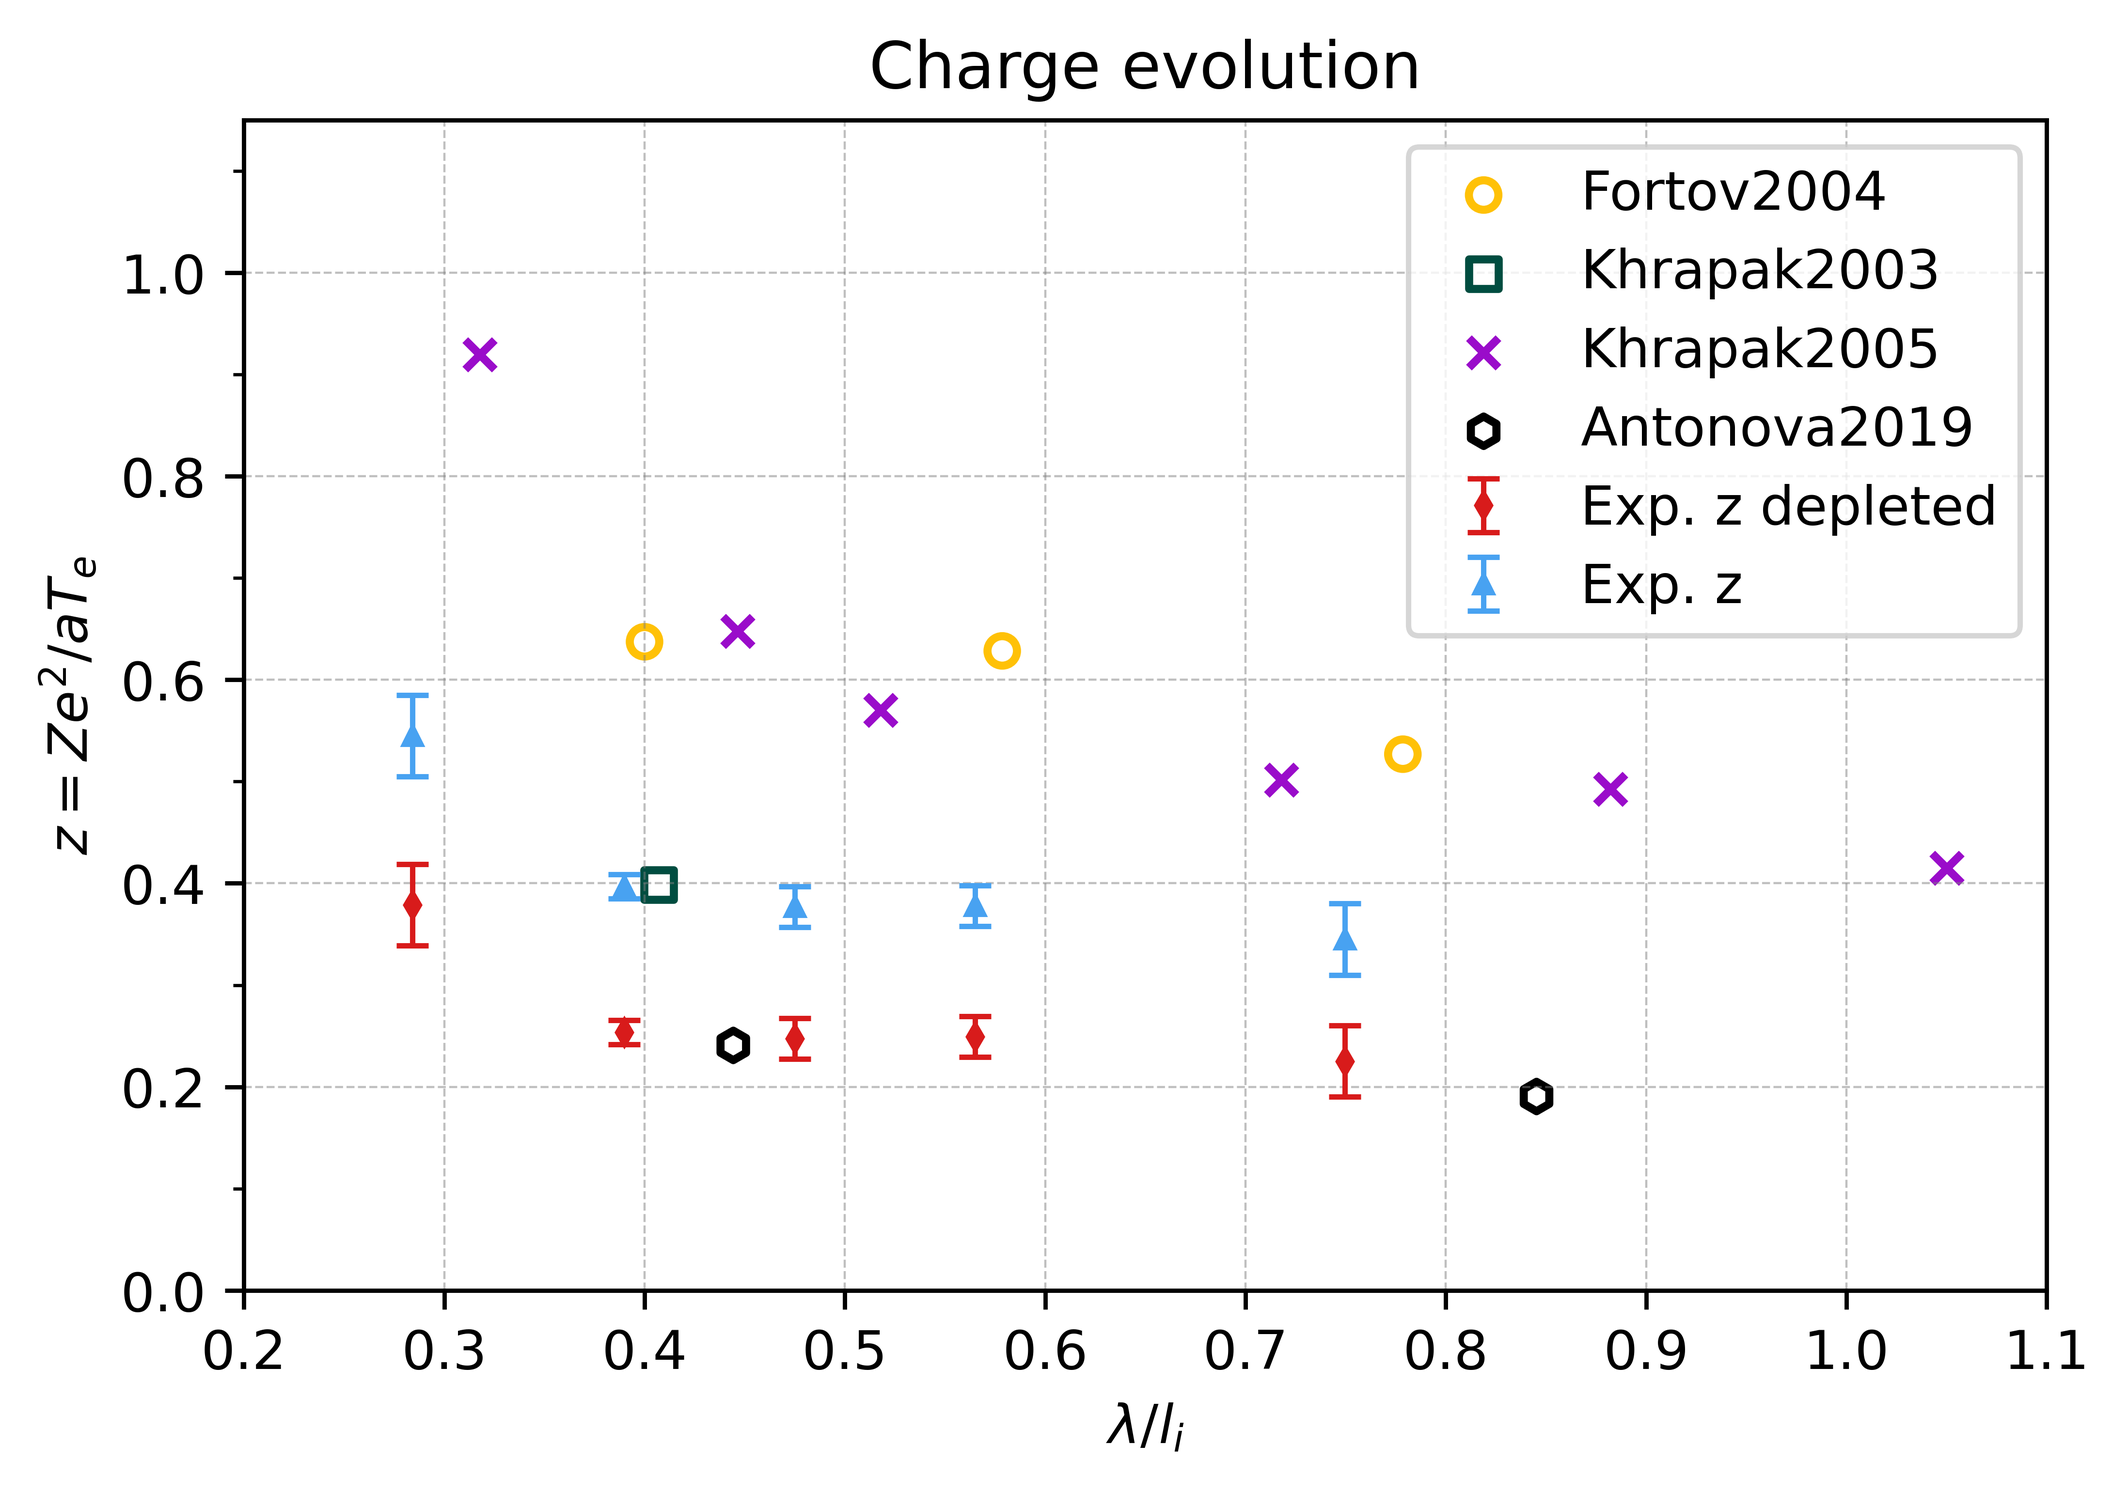
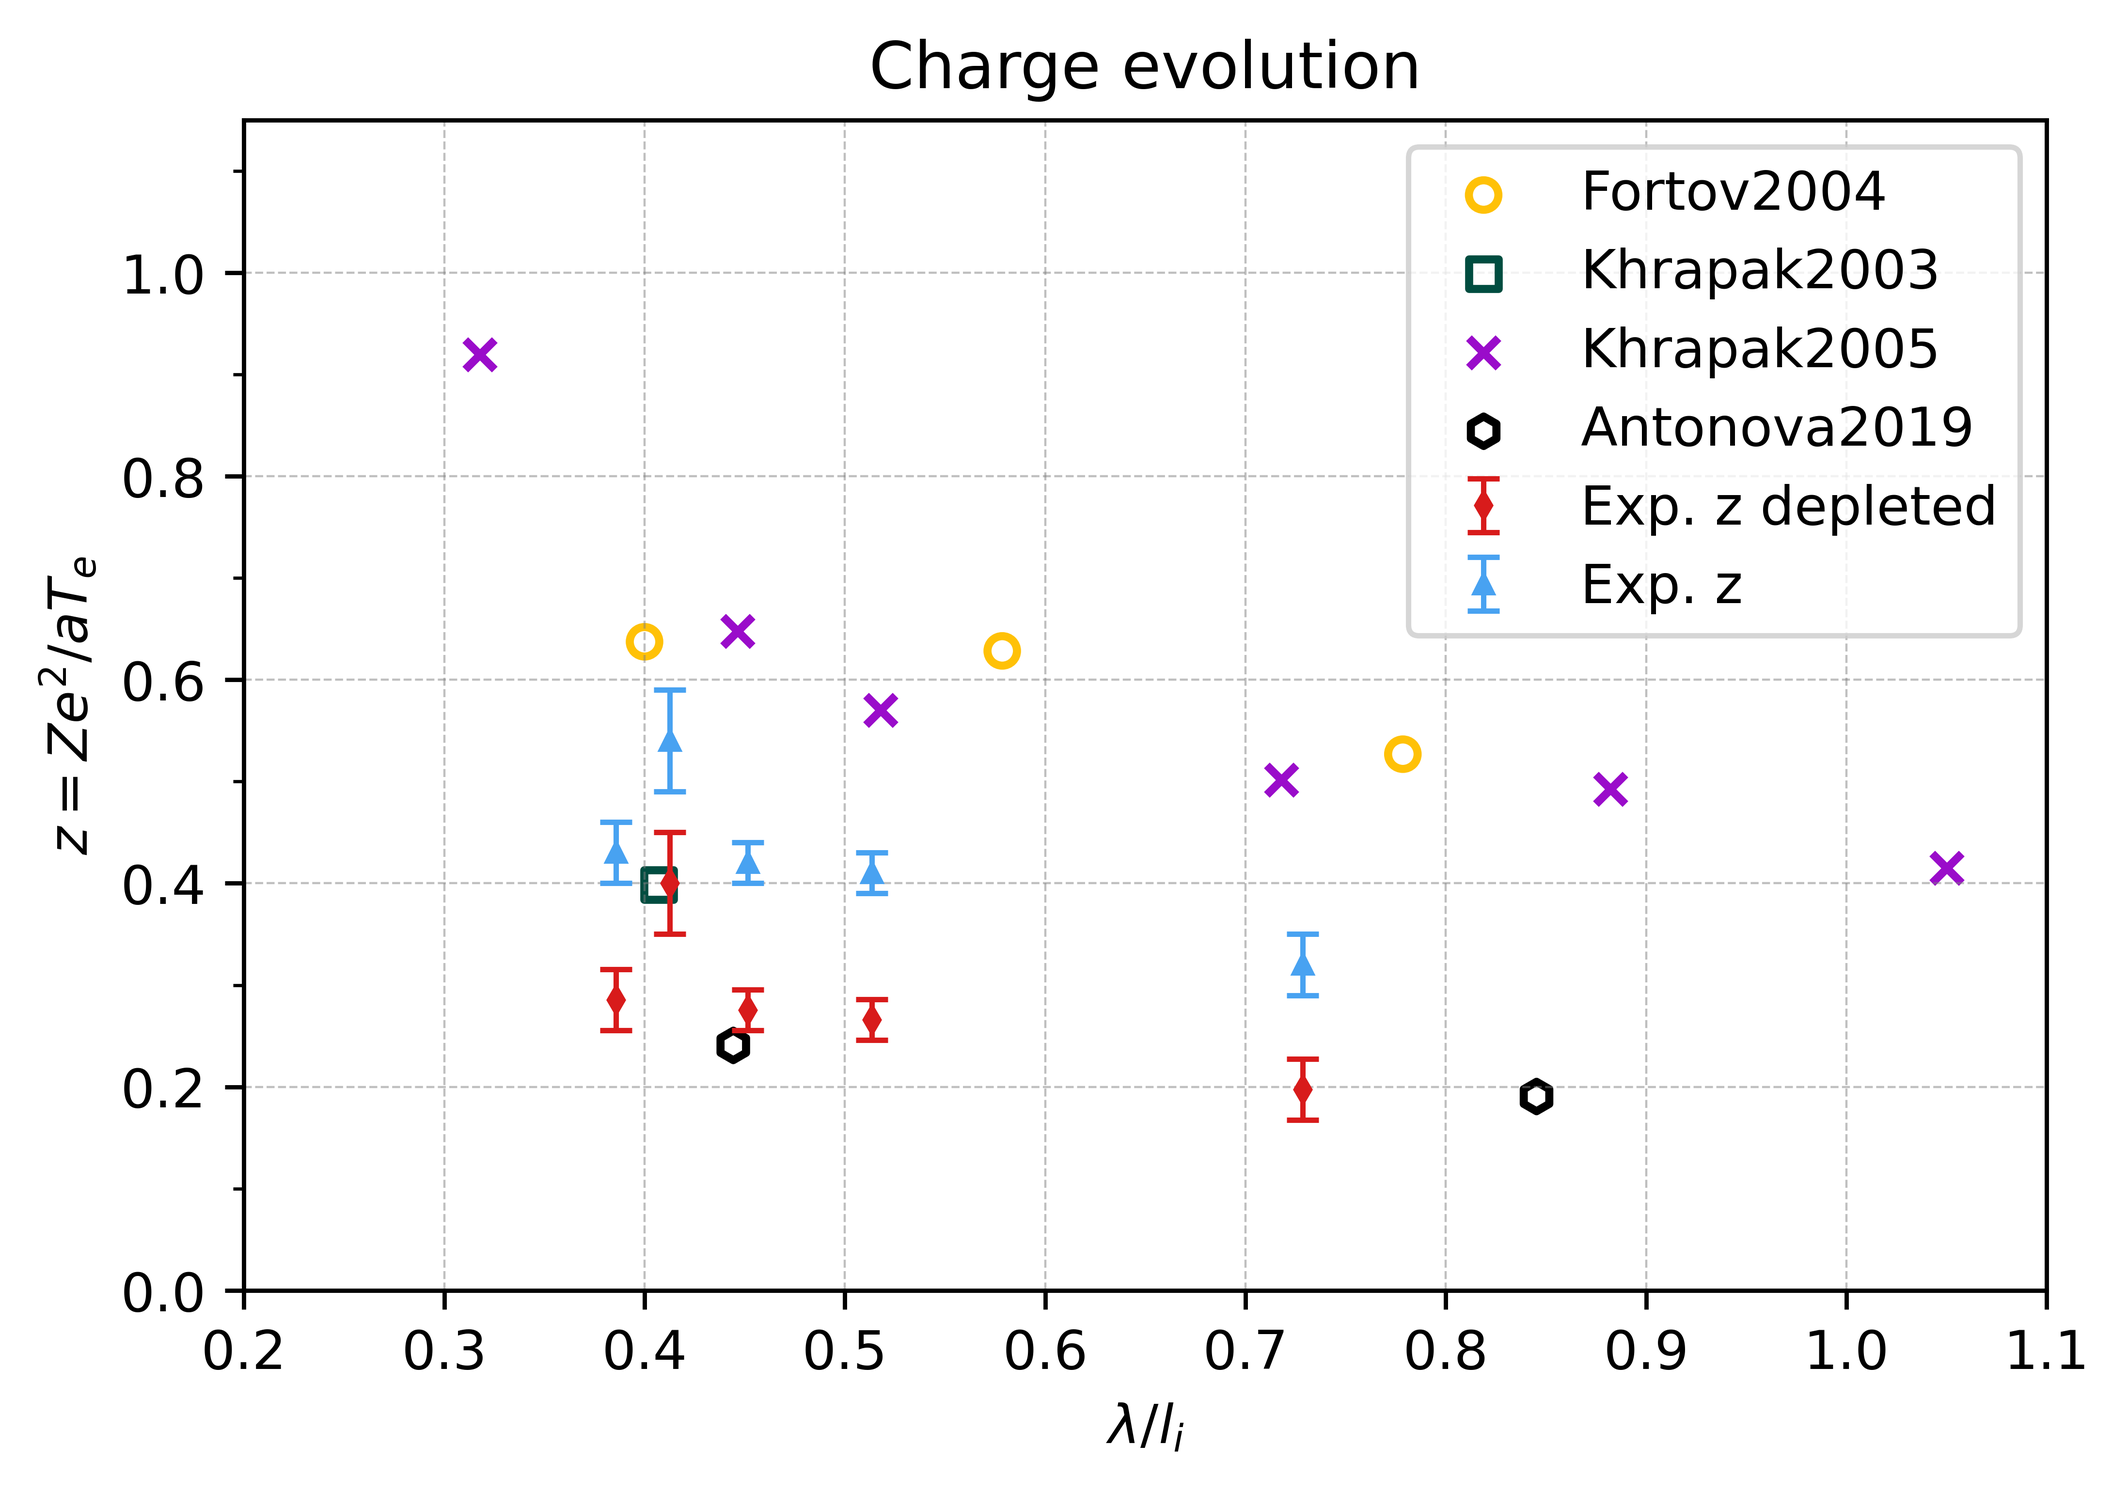
theory and plots

diff --git a/plots_bw_pfc42.py b/plots_bw_pfc42.py
@@ -353,14 +353,14 @@ def v_group_5(theory20, theory25, theory30, theory40, data20, error20, data25, e
     E_trial = [30, 40, 60, 80, 100]
     E_trial_30 = [40, 50, 60, 80, 100]
     E_trial_40 = [30, 50, 70, 90, 100]
-    arr_referenc = np.arange(10, 105, 5)
+    arr_referenc = np.arange(0, 110, 10)
     #
     #ax.plot(arr_referenc, theory20*1000, color ='#D81B1B', linestyle=':', linewidth=.9)
     #ax.plot(arr_referenc, theory25*1000, color='#48A2F1', linestyle='--', linewidth=.9)
     #ax.plot(arr_referenc, theory30*1000, color ='#FFC107', linestyle='-.', linewidth=.9)
     #ax.plot(arr_referenc, theory40*1000, color ='#000000', linestyle='-', linewidth=.9)
     # Fill the region between theory20 and theory40
-    ax.fill_between(arr_referenc, theory20*1000+1, theory40*1000-2, color='grey', alpha=0.3)
+    ax.fill_between(arr_referenc, theory20*1000, theory40*1000-3, color='grey', alpha=0.3)
     #
     ax.errorbar(E_trial, data20, yerr=error20, fmt='s', color='#D81B1B', linewidth=.9, markersize=3, capsize=1, mfc='w')
     ax.errorbar(E_trial, data25, yerr=error25, fmt='^', color='#48A2F1', linewidth=.9, markersize=3, capsize=1, mfc='w')
@@ -1122,7 +1122,7 @@ def bigploterror_12_3(x1, dx1, x2, dx2, x3, dx3, x4, dx4, x5, dx5, x6, dx6, x7, 
 def cdaw_bigploterror_6_3ov3_theory(data, error, data_pfc, error_pfc, theory, z, title, legend):
     #
     fig, ax = plt.subplots(dpi=600)
-    fig.set_size_inches(6, 3)
+    fig.set_size_inches(6, 3.5)
     #
     p = [20, 25, 30]
     p_pfc = [15, 20, 25, 30, 40]
@@ -1133,7 +1133,16 @@ def cdaw_bigploterror_6_3ov3_theory(data, error, data_pfc, error_pfc, theory, z,
     #
     ax.legend(['Theory','ISS Data','Pfc Data'])
     #
-    #adds a title and axes labels
+    #
+    #Edit tick 
+    ax.xaxis.set_minor_locator(MultipleLocator(2.5))
+    ax.yaxis.set_minor_locator(MultipleLocator(5))
+    #
+    #adds major gridlines
+    #ax.minorticks_on()
+    ax.grid(which='major', linestyle='--', linewidth='0.2', color='gray')
+    ax.grid(which='minor', linestyle='--', linewidth='0.1', color='gray')
+    #
     #ax.set_title(title)
     plt.xlabel('Pressure [Pa]')
     plt.ylabel('$C_{Daw}$ [mm/s]')
@@ -1141,19 +1150,10 @@ def cdaw_bigploterror_6_3ov3_theory(data, error, data_pfc, error_pfc, theory, z,
     ax2 = ax.twinx()  # instantiate a second axes that shares the same x-axis
     ax2.plot(p_pfc, z, color='#9A0CCA', linewidth=.5, linestyle='dashed')
     #
-    ax2.legend(["Charge potential"], bbox_to_anchor=(0.15, 0.6, .85, 0.1))#, prop={'size': 9})#, bbox_to_anchor=(0.08, 0.85, .85, .102))
+    ax2.legend(["Charge potential"], bbox_to_anchor=(0.15, 0.64, .85, 0.1) , loc='upper right')#, prop={'size': 9})#, bbox_to_anchor=(0.08, 0.85, .85, .102))
     #
     plt.ylabel('z')
-    #
-    #Edit tick 
-    ax.xaxis.set_minor_locator(MultipleLocator(2.5))
-    ax.yaxis.set_minor_locator(MultipleLocator(5))
-
-    #adds major gridlines
-    #ax.minorticks_on()
-    ax.grid(which='major', linestyle='--', linewidth='0.2', color='gray')
-    ax.grid(which='minor', linestyle='--', linewidth='0.1', color='gray')
-    
+    #    
     #ax2.set_ylim(ymax=.4)
     ax.set_ylim(ymax=80)
     
@@ -1162,14 +1162,14 @@ def cdaw_bigploterror_6_3ov3_theory(data, error, data_pfc, error_pfc, theory, z,
 def group_bigploterror_6_3ov3_theory(v_group, v_group_pfc, theory, havnes, title, legend):
     
     fig, ax = plt.subplots(dpi=600)
-    fig.set_size_inches(6, 3)
+    fig.set_size_inches(6, 3.5)
     #
     p = [15, 20, 25, 30, 40]
     p2 = [20, 25, 30]
     #
     ax.errorbar(p2, v_group[0], yerr=v_group[1], fmt='x', color='#48A2F1', markersize=2, linewidth=1, capsize=2) 
     ax.errorbar(p, v_group_pfc[0], yerr=v_group_pfc[1], fmt='^', color='#D81B1B', markersize=2, linewidth=1, capsize=2)        
-    ax.scatter(p, theory, marker='o', color='#000000', linewidth=1, s=30, facecolors='none')#, facecolors='none'
+    ax.scatter(p, abs(theory), marker='o', color='#000000', linewidth=1, s=30, facecolors='none')#, facecolors='none'
     #
     ax.legend(['Theory','ISS Data','Pfc Data'])
     #
@@ -1177,32 +1177,26 @@ def group_bigploterror_6_3ov3_theory(v_group, v_group_pfc, theory, havnes, title
     #
     plt.xlabel('Pressure [Pa]')
     #
-    # Create a second y-axis sharing the same x-axis
-    ax2 = ax.twinx()  # instantiate a second axes that shares the same x-axis
-    ax2.plot(p, havnes, color='#9A0CCA', linewidth=.5, linestyle='dashed')
-    #
-    ax2.legend(["Havnes-Parameter"], bbox_to_anchor=(0.15, 0.6, .85, 0.1) , loc='upper right')#, prop={'size': 9})#, bbox_to_anchor=(0.08, 0.85, .85, .102))
-    #
-    plt.ylabel('P')
-    #
     #Edit tick 
     ax.xaxis.set_minor_locator(MultipleLocator(2.5))
     ax.yaxis.set_minor_locator(MultipleLocator(5))
-
     #adds major gridlines
     #ax.minorticks_on()
     ax.grid(which='major', linestyle='--', linewidth='0.2', color='gray')
     ax.grid(which='minor', linestyle='--', linewidth='0.1', color='gray')
-    
-    # Create combined legend
-    #lines_labels = [data, theory, plot]
-    #labels = [line.get_label() for line in lines_labels]
-    #ax2.legend(lines_labels, labels, loc='upper right')
-    
+    #
+    # Create a second y-axis sharing the same x-axis
+    ax2 = ax.twinx()  # instantiate a second axes that shares the same x-axis
+    ax2.plot(p, havnes, color='#9A0CCA', linewidth=.5, linestyle='dashed')
+    #
+    ax2.legend(["Havnes-Parameter"], bbox_to_anchor=(0.15, 0.64, .85, 0.1) , loc='upper right')#, prop={'size': 9})#, bbox_to_anchor=(0.08, 0.85, .85, .102))
+    #
+    plt.ylabel('P')
+    #
     ax.set_title(title)
     #ax limit
     ax.set_ylim(ymin=30, ymax=100)
-    ax2.set_ylim(ymax=2.632)
+    ax2.set_ylim(ymax=3.132)
     
     plt.show() 
 
@@ -1668,7 +1662,7 @@ bigploterror_3(data_15_average, error_15_average, data_20_average, error_20_aver
 #%% PLOT
 
 # Import Math #
-obj_text_f = codecs.open('resultsC17/theory/theo_ dustspeed_neutralandiondrag_dc100_z_adjusted_depleted.txt', 'r', encoding='utf-8').read()
+obj_text_f = codecs.open('resultsC17/theory/theo_dustspeed_neutralandiondrag_dc100_z_depleted.txt', 'r', encoding='utf-8').read()
 parameters = json.load(open('resultsC17/parameters/system-parameter-C15-230125.json'))
 theory = np.array(json.loads(obj_text_f)) #This reads json to list
 theo_plot = theory[:,0]
@@ -1854,7 +1848,7 @@ error_speedlist_average_40pa_forward_pfc = np.std(a) + error_40
 #bigploterror_6_3ov3(speedlist_average_20pa_forward, error_speedlist_average_20pa_forward, speedlist_average_20pa_backward, error_speedlist_average_20pa_backward, speedlist_average_25pa_forward, error_speedlist_average_25pa_forward, speedlist_average_25pa_backward, error_speedlist_average_25pa_backward, speedlist_average_30pa_forward, error_speedlist_average_30pa_forward, speedlist_average_30pa_backward, error_speedlist_average_25pa_backward, ' ', ['20pa F', '20pa B', '25pa F', '25pa B', '30pa F', '30pa B'])
 
 # Import Math #
-obj_text_f = codecs.open('resultsC17/theory/theo_cdaw_dc100_z0.271.txt', 'r', encoding='utf-8').read()
+obj_text_f = codecs.open('resultsC17/theory/theo_cdaw_dc100_z0.285_depleted.txt', 'r', encoding='utf-8').read()
 theory = np.array(json.loads(obj_text_f)) #This reads json to list
 theo_plot = theory[:,0]
 z = theory[:,1]
@@ -1984,7 +1978,7 @@ v_error_trial_30 = [error30_t14, error30_t15, error30_t16, error30_t18, error_30
 v_data_trial_40 = [data40_t13, data40_t15, data40_t17, data40_t19, data_40_average]
 v_error_trial_40 = [error40_t13, error40_t15, error40_t17, error40_t19-2, error_40_average]                     
 #
-v_group_5(theory_cloud_speed_20pa, theory_cloud_speed_25pa, theory_cloud_speed_30pa, theory_cloud_speed_40pa, v_data_trial_20, v_error_trial_20, v_data_trial_25, v_error_trial_25, v_data_trial_30, v_error_trial_30, v_data_trial_40, v_error_trial_40,'', ['Linear Theory', 'Exp 20pa', 'Exp 25pa', 'Exp 30pa', 'Exp 40pa'])
+v_group_5(theory_cloud_speed_20pa, theory_cloud_speed_25pa, theory_cloud_speed_30pa, theory_cloud_speed_40pa, v_data_trial_20, v_error_trial_20, v_data_trial_25, v_error_trial_25, v_data_trial_30, v_error_trial_30, v_data_trial_40, v_error_trial_40,'', ['Theory', 'Exp 20pa', 'Exp 25pa', 'Exp 30pa', 'Exp 40pa'])
 #v_group_5(theory_cloud_speed_25pa, data25_t13, error25_t13, data25_t14, error25_t14, data25_t16, error20_t16, data25_t18, error25_t18, data_25_average, error_25_average, '', ['Theory 25pa', 'E30%', 'E40%', 'E60%', 'E80%', 'E100%'])
 #v_group_5_30pa(theory_cloud_speed_30pa, data30_t14, error30_t14, data30_t15, error30_t15, data30_t16, error30_t16, data30_t18, error30_t18, data_30_average, error_30_average, '', ['Theory 30pa', 'E40%', 'E50%', 'E60%', 'E80%', 'E100%'])
 #vgroup_p40(data40_t13, error40_t13, abs(data40_t15), error40_t15, data40_t17, error40_t17, data40_t19, error40_t19, data_40_average, error_40_average, '', ['E30%', 'E50%', 'E70%', 'E90%', 'E100%'])
@@ -2500,16 +2494,57 @@ collisionality = [parameters["15pa"]["debye_D"]/ion_mean[0], parameters["20pa"][
 #
 charge_plot(z, z_0, z_error, z_external, collisionality)
 
-#%%
+#%% Force Balance Graph
 
-### todo ###
+exp_data  = json.load(open('resultsC17/theory/forces.json'))
+theory1_data  = json.load(open('resultsC17/theory/forces_theory1_nodepl.json'))
+theory2_data  = json.load(open('resultsC17/theory/forces_theory2_nodepl.json'))
 
-#theory compare 30% efield pressure drop
-#theory compare 40% efield pressure drop
-#theory compare 60% efield pressure drop
-#theory compare 80% efield pressure drop
-#theory compare 100% efield pressure drop
+# Extract data
+pressures = list(exp_data .keys())
+F_i_exp = [exp_data [p]["F_i"] for p in pressures if "F_i" in exp_data [p]]
+F_e_exp = [exp_data [p]["F_e"] for p in pressures if "F_e" in exp_data [p]]
 
+F_i_theory1 = [theory1_data[p]["F_i"] for p in pressures if "F_i" in theory1_data[p]]
+F_e_theory1 = [theory1_data[p]["F_e"] for p in pressures if "F_e" in theory1_data[p]]
+
+F_i_theory2 = [theory2_data[p]["F_i"] for p in pressures if "F_i" in theory2_data[p]]
+F_e_theory2 = [theory2_data[p]["F_e"] for p in pressures if "F_e" in theory2_data[p]]
+
+# Calculate the error bars (20% of the experimental data)
+F_i_err = [0.1 * np.abs(f) for f in F_i_exp]
+F_e_err = [0.1 * np.abs(f) for f in F_e_exp]
+
+# Convert pressure labels to numeric values (assuming "15pa" corresponds to 15, etc.)
+pressure_values = [int(p[:-2]) for p in pressures]
+
+
+fig, ax = plt.subplots(dpi=600)
+fig.set_size_inches(6, 3.5)
+#
+ax.errorbar(pressure_values, F_i_exp, yerr=F_i_err, fmt='x', color='#48A2F1', markersize=4, linewidth=1, capsize=2) 
+ax.errorbar(pressure_values, np.abs(F_e_exp), yerr=F_e_err, fmt='x', color='#000000', markersize=4, linewidth=1, capsize=2) 
+#
+ax.plot(pressure_values, F_i_theory1, marker='^', color='#D81B1B', markersize=4, linewidth=.5, linestyle='-')  
+ax.plot(pressure_values, F_i_theory2, marker='^', color='#D81B1B', markersize=4, linewidth=.5, linestyle='-')  
+#      
+ax.plot(pressure_values, np.abs(F_e_theory1), marker='o', color='#000000', markersize=4, linewidth=.5, linestyle='-')
+#
+#ax.legend(['Theory','ISS Data','Pfc Data'])
+#
+plt.ylabel('$v_{group}$ [mm/s]')
+#
+plt.xlabel('Pressure [Pa]')
+#
+#Edit tick 
+#ax.xaxis.set_minor_locator(MultipleLocator(10))
+#ax.yaxis.set_minor_locator(MultipleLocator(50))
+#adds major gridlines
+#ax.minorticks_on()
+ax.grid(which='major', linestyle='--', linewidth='0.2', color='gray')
+#ax.grid(which='minor', linestyle='--', linewidth='0.1', color='gray')
+
+plt.show() 
 #%% Save Data
 # Write System Parameters Json #
 data = {
@@ -2620,4 +2655,10 @@ data = {
 with open('resultsC17/finaldatastack.json', 'w') as filehandle:
     json.dump(data, filehandle)
 
+### todo ###
 
+#theory compare 30% efield pressure drop
+#theory compare 40% efield pressure drop
+#theory compare 60% efield pressure drop
+#theory compare 80% efield pressure drop
+#theory compare 100% efield pressure drop

diff --git a/main_math.py b/main_math.py
@@ -88,13 +88,12 @@ I = .5 #mA
 '''    Pressure    '''
 p = np.array([15, 20, 25, 30, 40]) #pa
 
-trial_nr = 0
+trial_nr = 4
 trial = [0, .1, .2, .3, .4, .5, .6, .7, .8, .9, 1]
 
 '''    Charge Potential    '''
-#z = [.35, .34, .32, .32, .3] #F2
-z = [0.54, 0.43, 0.42, 0.41, 0.32] #F1
-#z = [.45, .35, .28, .24, .3] #Theory
+z = [0.54, 0.43, 0.42, 0.41, 0.32] #Exp F1
+#z = [.3, .3, .3, .3, .3] #Theory1
 z_inkl_error = [[0.54, 0.05],[0.43, 0.03],[0.42, 0.02],[0.41, 0.02],[0.32, 0.03]]
 
 '''    Duty-Cycle    '''
@@ -104,16 +103,16 @@ dc_value = 1
 epstein = [1.4, 1.4, 1.4, 1.4, 1.4]
 
 '''    Particle Charge Depletion    '''
-#charge_depletion = [0, 0, 0, 0, 1] #F1 & F2
-charge_depletion = [1, 1, 1, 1, 1] #Theory
+#charge_depletion = [0, 0, 0, 0, 0] #Theory
+charge_depletion = [1, 1, 1, 1, 1] #Exp F1
 
 '''    Particle Size    '''
 a = (1.3/2) *10**(-6) #micrometer particle radius
 
 '''    Dust number density    '''
-#n_d = [1.0, 1.0, 1.0, 1.0, 1.0] #F2
-n_d = [.65, 1.5, 1.9, 2.3, 2.5] #F1
-#n_d = [2., 2., 2., 2., 2.] #Theory
+n_d = [.65, 1.5, 1.9, 2.3, 2.5] #Exp^F1
+#n_d = [1., 1., 1., 1., 1.] #Theory1
+#n_d = [2., 2., 2., 2., 2.] #Theory2
 n_d = np.multiply(n_d,10**11) #in m^-3
 
 ##########################
@@ -366,7 +365,24 @@ ax.legend(['Theory $C_{DAW}$', 'E100'])
 ax.grid(color='grey', linestyle='--', linewidth=0.4, alpha=0.5)
 plt.show()
 #
-# Write System Parameters Json #
+# Group Velocity #
+v_d = np.column_stack((v_d,z_depl))
+path = 'theo_dustspeed_neutralandiondrag_dc' + str(int(dc_value*100)) + '_z' + str(round(np.average(z_depl), 3))
+if 1 in charge_depletion:
+    path = path + '_depleted.txt'
+else: path = path + '.txt'
+with open(path, 'w') as filehandle:
+    json.dump(v_d.tolist(), filehandle) 
+# Dust-accoustic wave velocity linear #
+C_daw_2 = np.column_stack((C_daw_2,z_depl))
+path = 'theo_cdaw_dc100_z' + str(round(np.average(z_depl), 3)) + '.txt'
+with open(path, 'w') as filehandle:
+    json.dump(C_daw_2.tolist(), filehandle)
+# Electric-Field depletion #
+path = 'theo_v_group_40pa_ef-reduce.txt'
+with open(path, 'w') as filehandle:
+    json.dump(v_trial.tolist(), filehandle)
+#%% Write System Parameters Json #
 data = {
         "neon" : { "cross-section" : sigma_neon
     },
@@ -491,24 +507,24 @@ with open('resultsC17/parameters/system-parameter-C15-230125.json', 'w') as file
     json.dump(data, filehandle)
 forces = {
     "15pa" : {
-        "F_i_exp" : F_i[0],
-        "F_e_exp" : F_e[0],
+        "F_i" : F_i[0],
+        "F_e" : F_e[0],
         "n_d" : n_d[0]
         
         },
     "20pa" : {
-        "F_i_exp" : F_i[1],
-        "F_e_exp" : F_e[1],
+        "F_i" : F_i[1],
+        "F_e" : F_e[1],
         "n_d" : n_d[1]
         },
     "25pa" : {
-        "F_i_exp" : F_i[2],
-        "F_e_exp" : F_e[2],
+        "F_i" : F_i[2],
+        "F_e" : F_e[2],
         "n_d" : n_d[2]
         },
     "30pa" : {
-        "F_i_exp" : F_i[3],
-        "F_e_exp" : F_e[3],
+        "F_i" : F_i[3],
+        "F_e" : F_e[3],
         "n_d" : n_d[3]
         },
     "40pa" : {

diff --git a/math_bw_pfc42.py b/math_bw_pfc42.py
@@ -381,7 +381,7 @@ plt.show()
 #
 # Group Velocity #
 v_dust = np.column_stack((v_dust,z_depl))
-path = 'theo_ dustspeed_neutraldrag_dc' + str(int(dc_value*100)) + '_z' + str(round(np.average(z_depl), 3)) + 'adj_damping_1p15'
+path = 'theo_dustspeed_neutraldrag_dc' + str(int(dc_value*100)) + '_z' + str(round(np.average(z_depl), 3)) + 'adj_damping_1p15'
 if charge_depletion == True:
     path = path + '_depleted.txt'
 else: path = path + '.txt'
